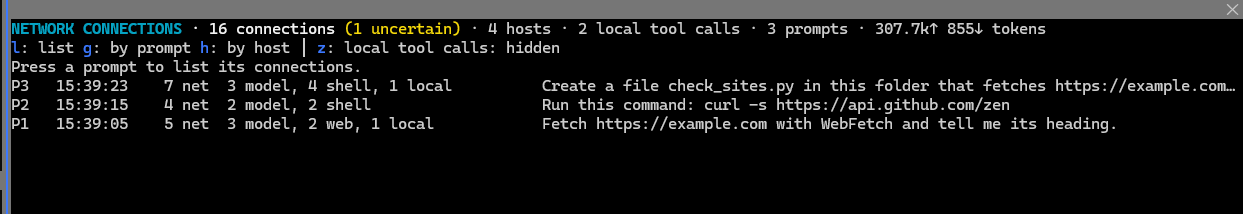
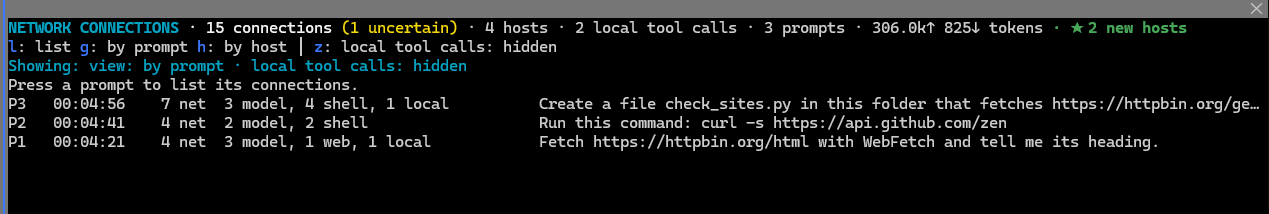
Refresh screenshots and document the details-view keys
Retake all five screenshots so they show the Showing line, row
selection and new-host flags. Caption the by-host shot as the
this-session set and list the details keys (p/n, o, t, c, f).

Changed region(s): [[0.0, 0.0, 1.0, 1.0], [0.428, 0.3645, 1.0, 0.7009]]

diff --git a/README.md b/README.md
@@ -25,7 +25,8 @@ Local tool calls (Read, Edit, …) are kept too, so each prompt's calls are comp
 - Views: `l` list, `g` by prompt, `h` by host, `z` show or hide local calls. `n`/`p` page to older/newer.
 - Kind filters in the list: `a` all, `m` model, `w` web, `s` shell, `x` mcp, `v` service, `f` share, `k` local. `u` clears a prompt or host you drilled into.
 - The cyan **Showing:** line at the top of the pane says which view, kind filter, prompt or host scope, and local-call setting are active.
-- WebFetch details: `w` tool output, `r` raw page (fetched again by the pane, listed as its own connection), `j`/`k` parts of a long body.
+- In a connection's details: `p`/`n` newer/older, `o` all from its prompt, `t` all to its host, `c` copy.
+- WebFetch details: `w` tool output, `r` raw page (fetched again by the pane, listed as its own connection), `f` fetch it again, `j`/`k` parts of a long body.
 - Poller rows: `u` jumps to the call that caused it; on a call, `1`–`9` jump to the connections seen under it.
 
 ## The poller (Windows)
@@ -49,6 +50,8 @@ Mods only see what WebFetch hands back: its processed output. `r` fetches the pa
 By prompt (`g`) and by host (`h`). The by-host view also lists hosts by set: `i` the hosts this session reached, `e` only the new ones, `y` all known hosts, including those only earlier sessions used (dim, marked `earlier`).
 
 ![Connections grouped by prompt](docs/screenshots/by-prompt.png)
+
+The by-host view with the `i` set (this session) selected; `e` and `y` switch the set.
 
 ![Connections grouped by host](docs/screenshots/by-host.png)
 
